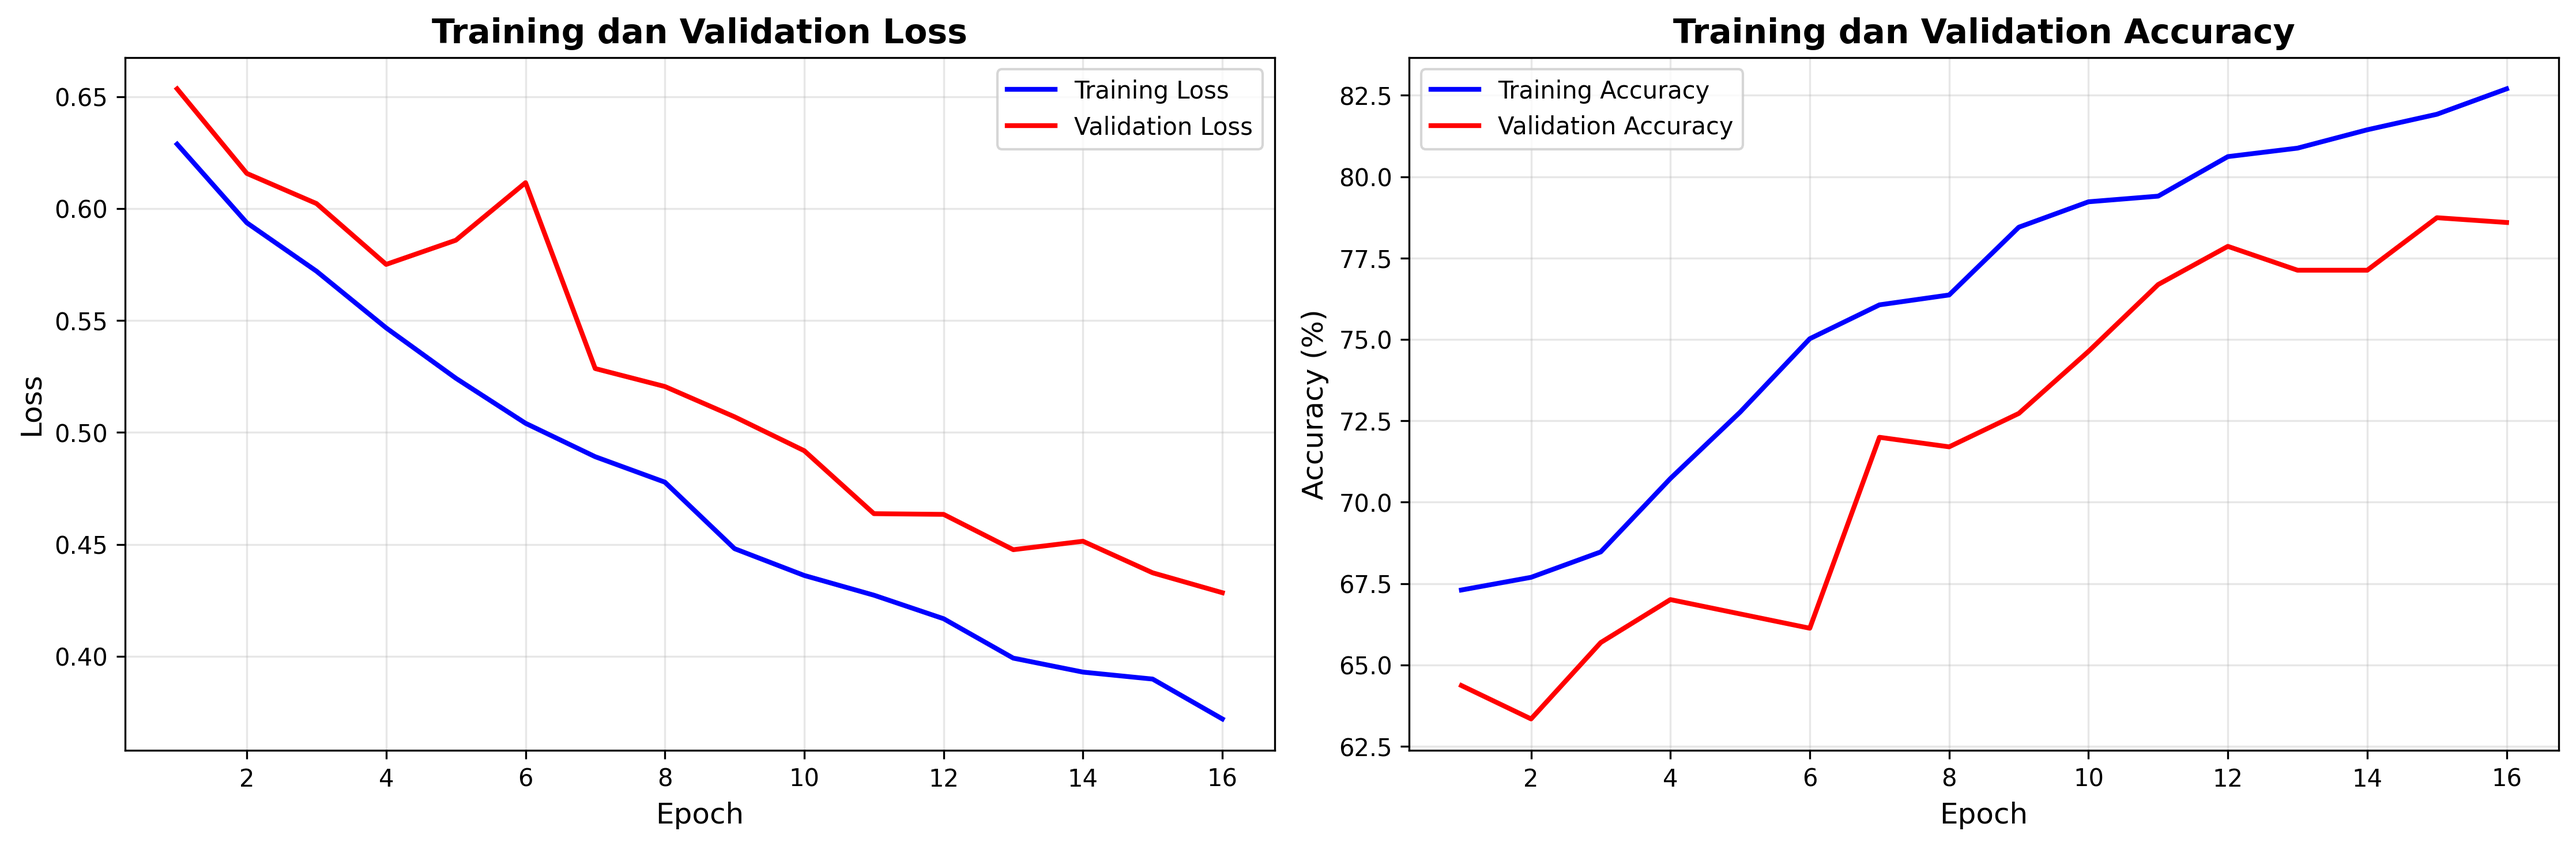
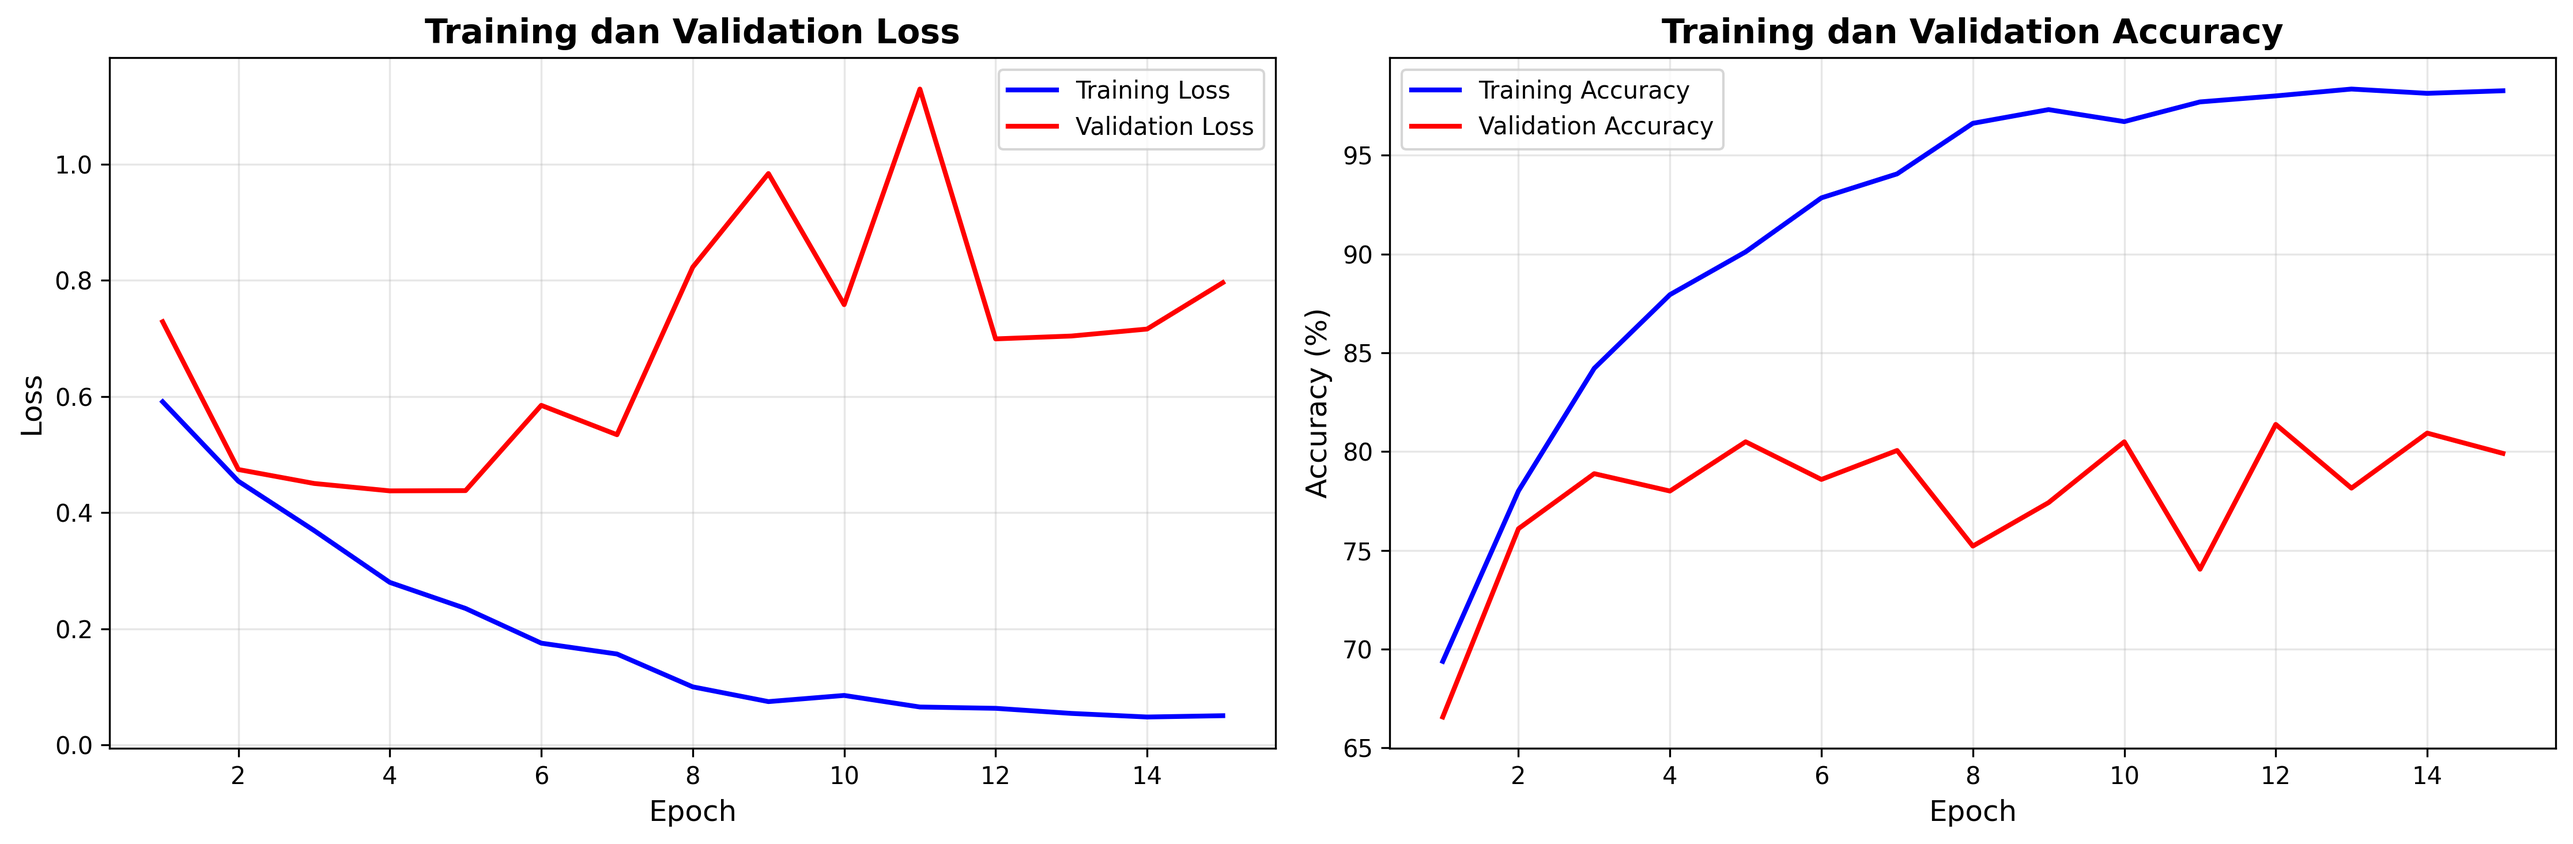
Initial commit

diff --git a/train.py b/train.py
@@ -4,27 +4,29 @@ import torch
 import torch.nn as nn
 import torch.optim as optim
 from datareader import get_data_loaders, NEW_CLASS_NAMES
-from model import SimpleCNN
+# Ganti SimpleCNN dengan ResNet18Model
+from model import ResNet18Model
 import matplotlib.pyplot as plt
 from utils import plot_training_history, visualize_random_val_predictions
 
 # --- Hyperparameter ---
-EPOCHS = 16
-BATCH_SIZE = 16
+EPOCHS = 15
+BATCH_SIZE = 15
 LEARNING_RATE = 0.0003
 
-#Menampilkan plot riwayat training dan validasi setelah training selesai.
-
 def train():
+    # device
+    device = torch.device("cuda" if torch.cuda.is_available() else "cpu")
+
     # 1. Memuat Data
     train_loader, val_loader, num_classes, in_channels = get_data_loaders(BATCH_SIZE)
     
-    # 2. Inisialisasi Model
-    model = SimpleCNN(in_channels=in_channels, num_classes=num_classes)
+    # 2. Inisialisasi Model (ResNet-18 yang dimodifikasi)
+    model = ResNet18Model(in_channels=in_channels, num_classes=num_classes, pretrained=False)
+    model = model.to(device)
     print(model)
     
     # 3. Mendefinisikan Loss Function dan Optimizer
-    # Gunakan BCEWithLogitsLoss untuk klasifikasi biner. Ini lebih stabil secara numerik.
     criterion = nn.BCEWithLogitsLoss()
     optimizer = optim.Adam(model.parameters(), lr=LEARNING_RATE)
     
@@ -44,12 +46,11 @@ def train():
         train_total = 0
         
         for images, labels in train_loader:
-            images = images
-            # Ubah tipe data label menjadi float untuk BCEWithLogitsLoss
-            labels = labels.float()
+            images = images.to(device)
+            labels = labels.float().to(device)  # BCEWithLogitsLoss expects float
             
-            outputs = model(images)
-            loss = criterion(outputs, labels) # Loss dihitung antara output tunggal dan label
+            outputs = model(images)  # shape: (batch, 1) jika num_classes==2
+            loss = criterion(outputs, labels)
             
             optimizer.zero_grad()
             loss.backward()
@@ -57,8 +58,8 @@ def train():
             
             running_loss += loss.item()
             
-            # Hitung training accuracy
-            predicted = (outputs > 0).float()
+            # Hitung training accuracy (threshold pada 0.5 setelah sigmoid)
+            predicted = (torch.sigmoid(outputs) > 0.5).float()
             train_total += labels.size(0)
             train_correct += (predicted == labels).sum().item()
         
@@ -73,14 +74,14 @@ def train():
         
         with torch.no_grad():
             for images, labels in val_loader:
-                images = images
-                labels = labels.float()
+                images = images.to(device)
+                labels = labels.float().to(device)
                 
                 outputs = model(images)
                 val_loss = criterion(outputs, labels)
                 val_running_loss += val_loss.item()
                 
-                predicted = (outputs > 0).float()
+                predicted = (torch.sigmoid(outputs) > 0.5).float()
                 val_total += labels.size(0)
                 val_correct += (predicted == labels).sum().item()
         
@@ -99,6 +100,9 @@ def train():
 
     print("--- Training Selesai ---")
     
+    # Pindahkan model ke CPU sebelum visualisasi/plot agar matplotlib tidak error saat mengambil tensor ke numpy
+    model = model.to("cpu")
+    
     # Tampilkan plot
     plot_training_history(train_losses_history, val_losses_history, 
                          train_accs_history, val_accs_history)
@@ -108,4 +112,3 @@ def train():
 
 if __name__ == '__main__':
     train()
-    

diff --git a/model.py b/model.py
@@ -2,40 +2,54 @@
 
 import torch
 import torch.nn as nn
+import torchvision.models as models
 
-class SimpleCNN(nn.Module):
-    def __init__(self, in_channels=1, num_classes=10):
+class ResNet18Model(nn.Module):
+    """
+    ResNet-18 yang dimodifikasi agar cocok untuk:
+    - input channels fleksibel (mis. 1 untuk grayscale)
+    - gambar kecil (28x28): gunakan conv1 kernel 3x3 + hilangkan maxpool
+    - output single logit saat num_classes==2 (untuk BCEWithLogitsLoss)
+    """
+    def __init__(self, in_channels=1, num_classes=2, pretrained=False):
         super().__init__()
-        self.conv1 = nn.Conv2d(in_channels, 6, kernel_size=5, stride=1, padding=2)   # 28x28 → 28x28
-        self.pool = nn.AvgPool2d(2)                                                  # 28x28 → 14x14
-        self.conv2 = nn.Conv2d(6, 16, kernel_size=5)                                 # 14x14 → 10x10
-        self.fc1 = nn.Linear(16 * 5 * 5, 120)                                        # 10x10 → 5x5 setelah pool
-        self.fc2 = nn.Linear(120, 84)
-        self.fc3 = nn.Linear(84, 1 if num_classes == 2 else num_classes)
+        self.num_classes = num_classes
+
+        # Ambil arsitektur ResNet-18 dasar
+        base = models.resnet18(pretrained=pretrained)
+
+        # Sesuaikan conv1 untuk input channels selain 3 (mis. 1 untuk grayscale)
+        if in_channels != 3:
+            base.conv1 = nn.Conv2d(in_channels, 64, kernel_size=3, stride=1, padding=1, bias=False)
+            # Untuk gambar kecil, hilangkan maxpool agar feature map tidak terlalu diperkecil
+            base.maxpool = nn.Identity()
+        else:
+            # Jika tetap 3-kanal tapi gambar kecil, juga ubah stride/pool agar lebih sesuai
+            base.conv1 = nn.Conv2d(3, 64, kernel_size=3, stride=1, padding=1, bias=False)
+            base.maxpool = nn.Identity()
+
+        # Sesuaikan classifier akhir: jika biner, keluaran 1 logit (untuk BCEWithLogitsLoss)
+        out_features = 1 if num_classes == 2 else num_classes
+        base.fc = nn.Linear(base.fc.in_features, out_features)
+
+        self.backbone = base
 
     def forward(self, x):
-        x = self.pool(torch.relu(self.conv1(x)))   # (N, 6, 14, 14)
-        x = self.pool(torch.relu(self.conv2(x)))   # (N,16, 5, 5)
-        x = torch.flatten(x, 1)
-        x = torch.relu(self.fc1(x))
-        x = torch.relu(self.fc2(x))
-        x = self.fc3(x)
-        return x
+        return self.backbone(x)
 
-# --- Bagian untuk pengujian ---
+# --- Bagian untuk pengujian cepat ---
 if __name__ == '__main__':
     NUM_CLASSES = 2
     IN_CHANNELS = 1
-    
-    print("--- Menguji Model 'SimpleCNN' ---")
-    
-    model = SimpleCNN(in_channels=IN_CHANNELS, num_classes=NUM_CLASSES)
+
+    print("--- Menguji Model 'ResNet18Model' ---")
+    model = ResNet18Model(in_channels=IN_CHANNELS, num_classes=NUM_CLASSES, pretrained=False)
     print("Arsitektur Model:")
     print(model)
-    
-    dummy_input = torch.randn(64, IN_CHANNELS, 28, 28)
+
+    dummy_input = torch.randn(8, IN_CHANNELS, 28, 28)
     output = model(dummy_input)
-    
+
     print(f"\nUkuran input: {dummy_input.shape}")
     print(f"Ukuran output: {output.shape}")
-    print("Pengujian model 'SimpleCNN' berhasil.")
+    print("Pengujian model 'ResNet18Model' berhasil.")

diff --git a/datareader.py b/datareader.py
@@ -1,8 +1,8 @@
-import torch
-import numpy as np
-import matplotlib.pyplot as plt
-import torchvision.transforms as transforms
-from torch.utils.data import DataLoader, Dataset
+import torch # type: ignore
+import numpy as np # type: ignore
+import matplotlib.pyplot as plt # type: ignore
+import torchvision.transforms as transforms # type: ignore
+from torch.utils.data import DataLoader, Dataset # type: ignore
 from medmnist import ChestMNIST
 
 # --- Konfigurasi Kelas Biner ---
@@ -152,6 +152,27 @@ def show_class_distribution(split='train'):
     print(f"{'='*60}\n")
     
     return sorted_classes
+
+# Tambahkan konstanta augmentasi (atur sesuai kebutuhan)
+ROTATION_DEGREES = 15  # rotasi acak dalam rentang [-15, 15] derajat
+
+# Transform untuk data training: sertakan RandomRotation (augmentasi)
+train_transform = transforms.Compose([
+    transforms.ToPILImage(),
+    transforms.RandomRotation(ROTATION_DEGREES, fill=0),
+    transforms.RandomHorizontalFlip(p=0.5),
+    transforms.Resize((28, 28)),
+    transforms.ToTensor(),
+    transforms.Normalize(mean=[0.5], std=[0.5]),
+])
+
+# Transform untuk validasi: tanpa augmentasi rotasi
+val_transform = transforms.Compose([
+    transforms.ToPILImage(),
+    transforms.Resize((28, 28)),
+    transforms.ToTensor(),
+    transforms.Normalize(mean=[0.5], std=[0.5]),
+])
 
 if __name__ == '__main__':
     print("Memuat dataset untuk plotting...")

diff --git a/laporan.md b/laporan.md
@@ -1,0 +1,18 @@
+Perubahan hasil eksperimen CNN menggunakan model ResNet-18
+- Pada file datareader.py ditambahan augmentasi rotating dapat dilihat pada kodingan dibawah
+- Menyiapkan transformasi citra untuk training dan validasi, di mana data training diberi augmentasi seperti rotasi acak ±15° dan flip horizontal di datareader.py untuk menambah variasi dan mencegah overfitting. Sedangkan data validasi hanya di-resize, dikonversi ke tensor, dan dinormalisasi agar evaluasi performa model tetap konsisten.
+Perubahan Model
+- model yang dipakai adalah ResNet-18 dan
+- dimodifikasi agar bisa menerima gambar dengan jumlah channel fleksibel (misal 1 untuk grayscale), ukuran kecil (28x28), dan menghasilkan 1 logit untuk klasifikasi biner. 
+- Input fleksibel: in_channels bisa diatur, misal 1 untuk grayscale atau 3 untuk RGB.
+- Gambar kecil: Kernel conv1 diubah menjadi 3x3 dan maxpool awal dihilangkan agar feature map tidak terlalu kecil.
+- Output biner: Jika num_classes==2, classifier akhir menghasilkan 1 logit untuk digunakan dengan BCEWithLogitsLoss.
+- Pretrained opsional: Bisa menggunakan ResNet-18 pretrained atau dilatih dari awal (pretrained=False).
+- Forward pass: Input diteruskan ke self.backbone yang merupakan ResNet-18 hasil modifikasi.
+- Testing cepat: Bagian __main__ membuat dummy input dan menampilkan ukuran input/output serta arsitektur untuk memastikan model bekerja.
+
+Perubahan train.py
+- perubahan yang dilakukan pada epochs bach_size, learning_rate
+- jumlah epochs yang dipakai adalah 13
+- nilai bach_size yang dipakai 30
+- angka learning_rate yang digunakan adalah 0,0003
